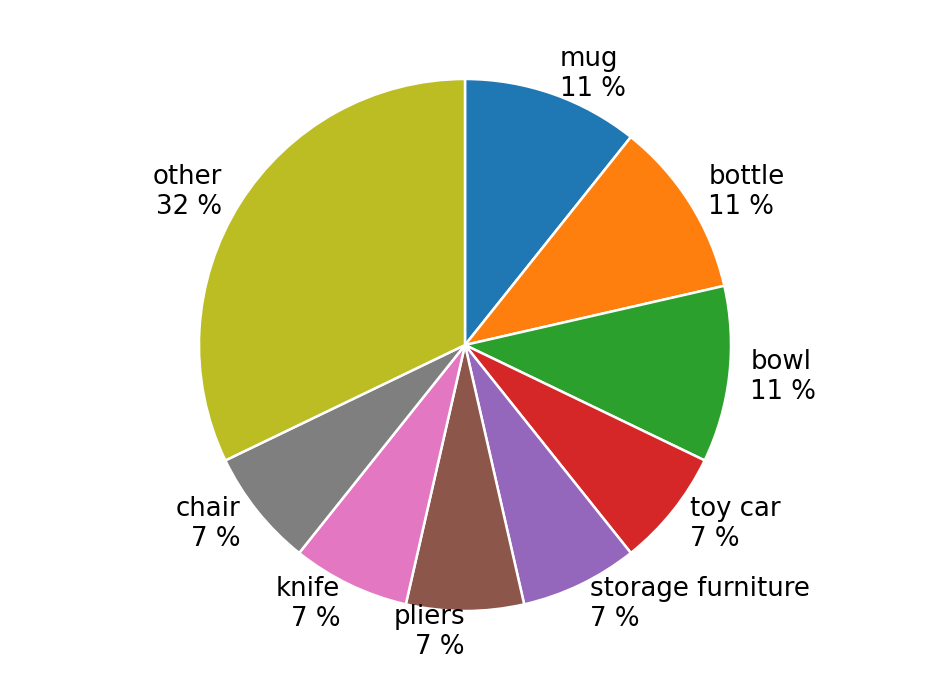
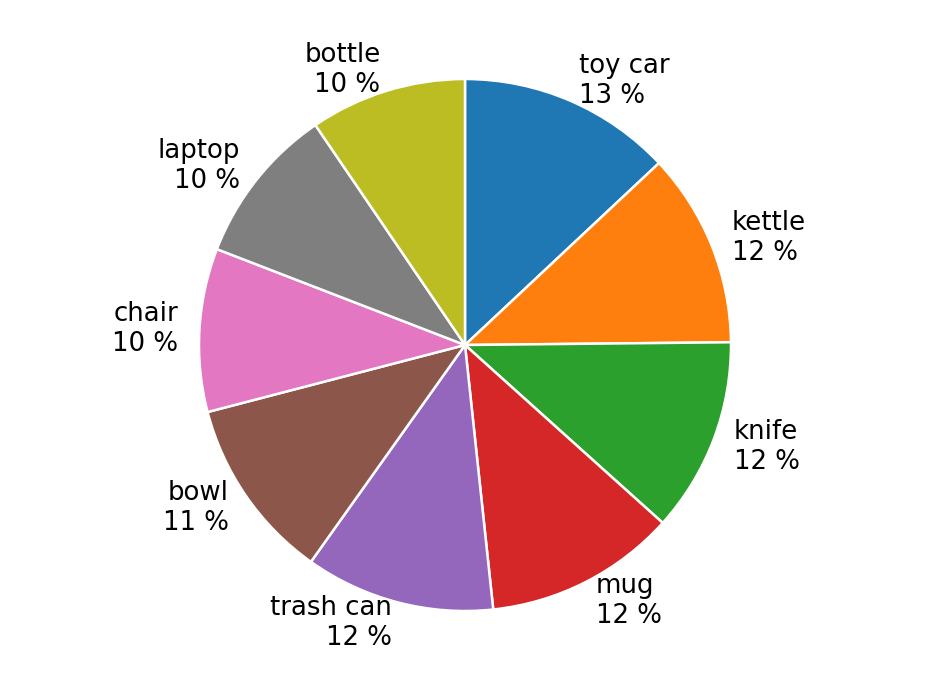
3d-wam deck #2-1: finalize the seven-dataset corpus
- HOI4D replaces its task-table placeholder with the converted corpus: 1,683
  episodes, 277,397 chunks, 9 of 16 categories (the released hand pose covers
  only 9; Storage Furniture / Safe / Bucket / Scissors / Pliers / Lamp / Stapler
  have object poses but no hands).
- New Method (2) slide: how each dataset's table was obtained (DexYCB AprilTag,
  GRAB shipped table pose, TACO/ARCTIC/OakInk2 resting-object plane cross-checked
  against frame 0, HOT3D none, HOI4D fitting from its labelled scene cloud) and
  the measured single- vs two-hand share (mixture 19.6 % / 80.1 %, chunk-weighted).
- Mixture table now carries the final chunk counts and shares.
- VITRA reframed as excluded: object points too noisy to teach dynamics.

Claude-Session: https://claude.ai/code/session_01SMPxcWL3pAAD5cKRpfQpSb

diff --git a/experiments/3d-wam/decks/2026-09-08-s2-1-human-data/index.html b/experiments/3d-wam/decks/2026-09-08-s2-1-human-data/index.html
@@ -121,15 +121,15 @@
 <!-- SECTION: overview -->
 <section class="slide s-overview">
   <h2>Overview</h2>
-  <p class="thesis"><b>[TL;DR]</b> Corpus thin on target skills: add HOI4D, re-weight the mix</p>
+  <p class="thesis"><b>[TL;DR]</b> Seven datasets, one gravity frame, table at z = 0</p>
   <ul>
-    <li>8 datasets profiled: tasks, objects, size</li>
-    <li>HOI4D matches best, not on disk</li>
-    <li>Decide: mixture shares, HOI4D download</li>
+    <li>7 datasets final; VITRA dropped</li>
+    <li>HOI4D converted: 9 of 16 categories</li>
+    <li>Decide: mixture shares</li>
   </ul>
   <div class="band">
     <figure><img src="assets/hero_size_relevance.png" alt="Two bar charts: hours of 10 Hz motion per dataset, and the share of episodes whose text is a GR-1 or DexJoCo target skill">
-      <figcaption>Size in hours of 10 Hz motion (left) and share of episodes whose text is a GR-1 / DexJoCo target skill (right); HOI4D from its task table, counts pending download</figcaption></figure>
+      <figcaption>Size in hours of 10 Hz motion (left) and share of episodes whose text is a GR-1 / DexJoCo target skill (right); HOI4D now measured on its 1,683 converted episodes</figcaption></figure>
   </div>
   <p class="footnote">sources: v2 manifests server-mirror/pull4/manifests* · VITRA v2 manifest (Mac) · HOI4D task table github leolyliu/HOI4D-Instructions · HOI4D paper arXiv 2203.01577</p>
 </section>
@@ -158,6 +158,39 @@
   <p class="footnote">GR-1 = robocasa task families PnP / open-close / press-turn · DexJoCo = its 11 tasks (pick_bucket, microwave, hanoi, assembly, photograph, unlock_ipad, click_mouse, fold_glasses, hammer_nail, pinch_tongs, water_plant) · full regexes in the appendix</p>
 </section>
 
+<!-- SECTION: method (2) · gravity frame + handedness -->
+<section class="s-method">
+  <h2>Method (2): one gravity frame, and who is actually working</h2>
+  <p class="thesis">Every dataset put z-up with its table at z = 0, from its own evidence</p>
+  <ul>
+    <li>Ground truth where it exists</li>
+    <li>Fitted only where it does not</li>
+    <li>No plane drawn when unmeasured</li>
+  </ul>
+  <div class="band">
+    <figure class="tb"><table class="fact">
+      <thead><tr><th>dataset</th><th>table from</th><th class="num">residual</th></tr></thead>
+      <tbody>
+        <tr><td>DexYCB</td><td>AprilTag board (calibration)</td><td class="num">0.0 mm</td></tr>
+        <tr><td>GRAB</td><td>table pose shipped per sequence</td><td class="num">0.0 cm</td></tr>
+        <tr><td>TACO / ARCTIC / OakInk2</td><td>resting-object plane, checked against frame 0</td><td class="num">&le; 0.2 cm</td></tr>
+        <tr><td>HOT3D</td><td>none &mdash; egocentric, many surfaces</td><td class="num">z-up only</td></tr>
+        <tr class="pend"><td>HOI4D</td><td>labelled scene cloud (table class)</td><td class="num">fitting<br>2026-09-09</td></tr>
+      </tbody></table><figcaption>Table source per dataset and the residual of the lowest resting object after the fix</figcaption></figure>
+    <figure class="tb"><table class="fact">
+      <thead><tr><th>dataset</th><th class="num">two hands active</th><th class="num">one hand</th></tr></thead>
+      <tbody>
+        <tr><td>ARCTIC / HOT3D / TACO</td><td class="num">98&ndash;99 %</td><td class="num">1&ndash;2 %</td></tr>
+        <tr><td>OakInk2</td><td class="num">91.8 %</td><td class="num">8.2 %</td></tr>
+        <tr><td>GRAB</td><td class="num">51.3 %</td><td class="num">47.0 %</td></tr>
+        <tr><td>HOI4D</td><td class="num">7.7 %</td><td class="num">91.4 %</td></tr>
+        <tr><td>DexYCB</td><td class="num">0.0 %</td><td class="num">99.8 %</td></tr>
+        <tr><td>mixture, chunk-weighted</td><td class="num">80.1 %</td><td class="num">19.6 %</td></tr>
+      </tbody></table><figcaption>Hands that actually touch an object, not hands that are annotated; requiring the weaker hand at &ge; 50 % engagement cuts the two-hand share to 68.6 %</figcaption></figure>
+  </div>
+  <p class="footnote">Method: per episode an affine <span class="mono">p&#8320; = R(p + origin) + T</span> with z up and the table at z = 0, shipped as a sidecar the loader reads; an episode that fails its check keeps the old hand-centred frame rather than a guessed plane. DexYCB's rotation independently confirmed by within-episode coplanarity (tilt &le; 1.8&deg;). GRAB's table moves per sequence (0.73&ndash;1.18 m), which is why a per-subject constant failed. Activity = &ge; 5 frames of 1 cm point contact &middot; full numbers in <span class="mono">season2/handedness/</span></p>
+</section>
+
 <!-- SECTION: viz grid (outside the ≤ 8 cap) · Data (1/8): GRAB · captions only, no interpretation -->
 <section class="slide s-viz fn2">
   <h2>Data (1/8): GRAB</h2>
@@ -175,11 +208,11 @@
         <tr><td>GR-1-relevant %</td><td class="num">65.3</td></tr>
         <tr><td>DexJoCo-relevant %</td><td class="num">67.2</td></tr>
       </tbody></table><figcaption>Size and relevance · v2 manifest, human embodiment</figcaption></figure>
-        <figure class="clip"><img src="assets/grab__grab_s10_bowl_lift_0__human.gif" alt="GRAB: ground-truth point set, lift the bowl" loading="lazy" style="background:url(assets/grab__grab_s10_bowl_lift_0__human.jpg) center/contain no-repeat"><figcaption>GRAB · lift the bowl · GT point set &middot; z-up, no table plane &middot; 50 frames @ 10 Hz · 2 hands, 1 object</figcaption></figure>
-    <figure class="clip"><img src="assets/grab__grab_s10_cup_lift_0__human.gif" alt="GRAB: ground-truth point set, lift the cup" loading="lazy" style="background:url(assets/grab__grab_s10_cup_lift_0__human.jpg) center/contain no-repeat"><figcaption>GRAB · lift the cup · GT point set &middot; z-up, no table plane &middot; 50 frames @ 10 Hz · 2 hands, 1 object</figcaption></figure>
-    <figure class="phold"><div class="pbox"><b>WILL UPDATE · raw video</b><span>no RGB exists (mocap-only dataset) · mesh render instead, lands 23:30</span></div><figcaption>Raw video · GRAB · mesh render instead of RGB · lands 2026-09-08 23:30 KST</figcaption></figure>
+        <figure class="clip"><img src="assets/grab__grab_s10_bowl_lift_0__human.gif" alt="GRAB: ground-truth point set, lift the bowl" loading="lazy" style="background:url(assets/grab__grab_s10_bowl_lift_0__human.jpg) center/contain no-repeat"><figcaption>GRAB · lift the bowl · GT point set &middot; z-up; plane pending re-render &middot; 50 frames @ 10 Hz · 2 hands, 1 object</figcaption></figure>
+    <figure class="clip"><img src="assets/grab__grab_s10_cup_lift_0__human.gif" alt="GRAB: ground-truth point set, lift the cup" loading="lazy" style="background:url(assets/grab__grab_s10_cup_lift_0__human.jpg) center/contain no-repeat"><figcaption>GRAB · lift the cup · GT point set &middot; z-up; plane pending re-render &middot; 50 frames @ 10 Hz · 2 hands, 1 object</figcaption></figure>
+    <figure class="phold"><div class="pbox"><b>WILL UPDATE · raw video</b><span>no RGB exists (mocap-only dataset)</span></div><figcaption>Raw video · GRAB · none exists: GRAB is mocap-only</figcaption></figure>
   </div>
-  <p class="footnote">GT renders in the SEASON-2 FRAME (2026-09-09): per-episode gravity z-up with the table at z = 0, drawn as a translucent plane on DexYCB / TACO / ARCTIC / OakInk2 (object points rest within 1 cm of it). GRAB and HOT3D have no consistent support surface, so they are shown z-up with NO plane. Camera elev 22&deg;/azim &minus;60&deg;, window = up to 50 frames from 5 before the first hand&ndash;object &lt; 5 cm frame; right hand green, left hand purple, objects orange/amber</p>
+  <p class="footnote">GT renders in the SEASON-2 FRAME (2026-09-09): per-episode gravity z-up with the table at z = 0, drawn as a translucent plane on DexYCB / TACO / ARCTIC / OakInk2 (object points rest within 1 cm of it). GRAB is now anchored from the table pose it ships per sequence (residual 0.0 cm, all 1,332 episodes) but these clips predate that fit, so no plane is drawn on them yet. HOT3D has no consistent support surface (egocentric, many surfaces) and stays z-up by design. Camera elev 22&deg;/azim &minus;60&deg;, window = up to 50 frames from 5 before the first hand&ndash;object &lt; 5 cm frame; right hand green, left hand purple, objects orange/amber</p>
 </section>
 
 <!-- SECTION: viz grid (outside the ≤ 8 cap) · Data (2/8): OakInk2 · captions only, no interpretation -->
@@ -203,7 +236,7 @@
     <figure class="clip"><img src="assets/oakink2__scene_01__A001++seq__235ac519d522ceb4c947__2023-04-27-20-30-50__human.gif" alt="OakInk2: ground-truth point set, Pour something into the plate and grip something out of the plate." loading="lazy" style="background:url(assets/oakink2__scene_01__A001++seq__235ac519d522ceb4c947__2023-04-27-20-30-50__human.jpg) center/contain no-repeat"><figcaption>OakInk2 · Pour something into the plate and grip something out of the plate · GT point set &middot; season-2 frame, table plane z = 0 &middot; 50 frames @ 10 Hz · 2 hands, 5 objects</figcaption></figure>
     <figure class="phold"><div class="pbox"><b>WILL UPDATE · raw video</b><span>RGB not on disk · needs the dataset&#x27;s video archive · unestimated</span></div><figcaption>Raw video · OakInk2 · RGB not on disk · unestimated</figcaption></figure>
   </div>
-  <p class="footnote">GT renders in the SEASON-2 FRAME (2026-09-09): per-episode gravity z-up with the table at z = 0, drawn as a translucent plane on DexYCB / TACO / ARCTIC / OakInk2 (object points rest within 1 cm of it). GRAB and HOT3D have no consistent support surface, so they are shown z-up with NO plane. Camera elev 22&deg;/azim &minus;60&deg;, window = up to 50 frames from 5 before the first hand&ndash;object &lt; 5 cm frame; right hand green, left hand purple, objects orange/amber</p>
+  <p class="footnote">GT renders in the SEASON-2 FRAME (2026-09-09): per-episode gravity z-up with the table at z = 0, drawn as a translucent plane on DexYCB / TACO / ARCTIC / OakInk2 (object points rest within 1 cm of it). GRAB is now anchored from the table pose it ships per sequence (residual 0.0 cm, all 1,332 episodes) but these clips predate that fit, so no plane is drawn on them yet. HOT3D has no consistent support surface (egocentric, many surfaces) and stays z-up by design. Camera elev 22&deg;/azim &minus;60&deg;, window = up to 50 frames from 5 before the first hand&ndash;object &lt; 5 cm frame; right hand green, left hand purple, objects orange/amber</p>
 </section>
 
 <!-- SECTION: viz grid (outside the ≤ 8 cap) · Data (3/8): TACO · captions only, no interpretation -->
@@ -227,7 +260,7 @@
     <figure class="clip"><img src="assets/taco__taco_put_in__bowl__pan_20230926_014__human.gif" alt="TACO: ground-truth point set, put in the pan with the bowl" loading="lazy" style="background:url(assets/taco__taco_put_in__bowl__pan_20230926_014__human.jpg) center/contain no-repeat"><figcaption>TACO · put in the pan with the bowl · GT point set &middot; season-2 frame, table plane z = 0 &middot; 50 frames @ 10 Hz · 2 hands, 2 objects</figcaption></figure>
     <figure class="phold"><div class="pbox"><b>WILL UPDATE · raw video</b><span>RGB not on disk · needs the dataset&#x27;s video archive · unestimated</span></div><figcaption>Raw video · TACO · RGB not on disk · unestimated</figcaption></figure>
   </div>
-  <p class="footnote">GT renders in the SEASON-2 FRAME (2026-09-09): per-episode gravity z-up with the table at z = 0, drawn as a translucent plane on DexYCB / TACO / ARCTIC / OakInk2 (object points rest within 1 cm of it). GRAB and HOT3D have no consistent support surface, so they are shown z-up with NO plane. Camera elev 22&deg;/azim &minus;60&deg;, window = up to 50 frames from 5 before the first hand&ndash;object &lt; 5 cm frame; right hand green, left hand purple, objects orange/amber</p>
+  <p class="footnote">GT renders in the SEASON-2 FRAME (2026-09-09): per-episode gravity z-up with the table at z = 0, drawn as a translucent plane on DexYCB / TACO / ARCTIC / OakInk2 (object points rest within 1 cm of it). GRAB is now anchored from the table pose it ships per sequence (residual 0.0 cm, all 1,332 episodes) but these clips predate that fit, so no plane is drawn on them yet. HOT3D has no consistent support surface (egocentric, many surfaces) and stays z-up by design. Camera elev 22&deg;/azim &minus;60&deg;, window = up to 50 frames from 5 before the first hand&ndash;object &lt; 5 cm frame; right hand green, left hand purple, objects orange/amber</p>
 </section>
 
 <!-- SECTION: viz grid (outside the ≤ 8 cap) · Data (4/8): ARCTIC · captions only, no interpretation -->
@@ -251,7 +284,7 @@
     <figure class="clip"><img src="assets/arctic__dataset_s01_ketchup_grab_01__human.gif" alt="ARCTIC: ground-truth point set, grab the ketchup" loading="lazy" style="background:url(assets/arctic__dataset_s01_ketchup_grab_01__human.jpg) center/contain no-repeat"><figcaption>ARCTIC · grab the ketchup · GT point set &middot; season-2 frame, table plane z = 0 &middot; 50 frames @ 10 Hz · 2 hands, 1 object</figcaption></figure>
     <figure class="phold"><div class="pbox"><b>WILL UPDATE · raw video</b><span>RGB not on disk · needs the dataset&#x27;s video archive · unestimated</span></div><figcaption>Raw video · ARCTIC · RGB not on disk · unestimated</figcaption></figure>
   </div>
-  <p class="footnote">GT renders in the SEASON-2 FRAME (2026-09-09): per-episode gravity z-up with the table at z = 0, drawn as a translucent plane on DexYCB / TACO / ARCTIC / OakInk2 (object points rest within 1 cm of it). GRAB and HOT3D have no consistent support surface, so they are shown z-up with NO plane. Camera elev 22&deg;/azim &minus;60&deg;, window = up to 50 frames from 5 before the first hand&ndash;object &lt; 5 cm frame; right hand green, left hand purple, objects orange/amber</p>
+  <p class="footnote">GT renders in the SEASON-2 FRAME (2026-09-09): per-episode gravity z-up with the table at z = 0, drawn as a translucent plane on DexYCB / TACO / ARCTIC / OakInk2 (object points rest within 1 cm of it). GRAB is now anchored from the table pose it ships per sequence (residual 0.0 cm, all 1,332 episodes) but these clips predate that fit, so no plane is drawn on them yet. HOT3D has no consistent support surface (egocentric, many surfaces) and stays z-up by design. Camera elev 22&deg;/azim &minus;60&deg;, window = up to 50 frames from 5 before the first hand&ndash;object &lt; 5 cm frame; right hand green, left hand purple, objects orange/amber</p>
 </section>
 
 <!-- SECTION: viz grid (outside the ≤ 8 cap) · Data (5/8): DexYCB · captions only, no interpretation -->
@@ -275,7 +308,7 @@
     <figure class="clip"><img src="assets/dexycb__dexycb_20200709-subject-01_20200709_141841_932122062010__human.gif" alt="DexYCB: ground-truth point set, grasp the master chef can" loading="lazy" style="background:url(assets/dexycb__dexycb_20200709-subject-01_20200709_141841_932122062010__human.jpg) center/contain no-repeat"><figcaption>DexYCB · grasp the master chef can · GT point set &middot; season-2 frame, table plane z = 0 &middot; 19 frames @ 10 Hz · 1 hand, 4 objects</figcaption></figure>
     <figure class="clip"><video src="assets/raw_dexycb__20200709_142853_932122062010.mp4" poster="assets/raw_dexycb__20200709_142853_932122062010.jpg" autoplay loop muted playsinline preload="metadata" aria-label="DexYCB raw RGB, grasp the tomato soup can"></video><figcaption>DexYCB · grasp the tomato soup can · allocentric RGB camera, 74 frames @ 30 fps</figcaption></figure>
   </div>
-  <p class="footnote">GT renders in the SEASON-2 FRAME (2026-09-09): per-episode gravity z-up with the table at z = 0, drawn as a translucent plane on DexYCB / TACO / ARCTIC / OakInk2 (object points rest within 1 cm of it). GRAB and HOT3D have no consistent support surface, so they are shown z-up with NO plane. Camera elev 22&deg;/azim &minus;60&deg;, window = up to 50 frames from 5 before the first hand&ndash;object &lt; 5 cm frame; right hand green, left hand purple, objects orange/amber</p>
+  <p class="footnote">GT renders in the SEASON-2 FRAME (2026-09-09): per-episode gravity z-up with the table at z = 0, drawn as a translucent plane on DexYCB / TACO / ARCTIC / OakInk2 (object points rest within 1 cm of it). GRAB is now anchored from the table pose it ships per sequence (residual 0.0 cm, all 1,332 episodes) but these clips predate that fit, so no plane is drawn on them yet. HOT3D has no consistent support surface (egocentric, many surfaces) and stays z-up by design. Camera elev 22&deg;/azim &minus;60&deg;, window = up to 50 frames from 5 before the first hand&ndash;object &lt; 5 cm frame; right hand green, left hand purple, objects orange/amber</p>
 </section>
 
 <!-- SECTION: viz grid (outside the ≤ 8 cap) · Data (6/8): HOT3D · captions only, no interpretation -->
@@ -299,37 +332,36 @@
     <figure class="clip"><img src="assets/hot3d__P0001_15c4300c__human.gif" alt="HOT3D: ground-truth point set, interact with the potato masher and the can tomato sauce" loading="lazy" style="background:url(assets/hot3d__P0001_15c4300c__human.jpg) center/contain no-repeat"><figcaption>HOT3D · interact with the potato masher and the can tomato sauce · GT point set &middot; z-up, no table plane &middot; 50 frames @ 10 Hz · 2 hands, 6 objects</figcaption></figure>
     <figure class="clip"><video src="assets/raw_hot3d__P0001_10a27bf7.mp4" poster="assets/raw_hot3d__P0001_10a27bf7.jpg" autoplay loop muted playsinline preload="metadata" aria-label="HOT3D raw RGB, interact with the mug white and the keyboard"></video><figcaption>HOT3D · P0001_10a27bf7 · Aria RGB, last 5 s of the recording (alignment to the object-pose clock pending)</figcaption></figure>
   </div>
-  <p class="footnote">GT renders in the SEASON-2 FRAME (2026-09-09): per-episode gravity z-up with the table at z = 0, drawn as a translucent plane on DexYCB / TACO / ARCTIC / OakInk2 (object points rest within 1 cm of it). GRAB and HOT3D have no consistent support surface, so they are shown z-up with NO plane. Camera elev 22&deg;/azim &minus;60&deg;, window = up to 50 frames from 5 before the first hand&ndash;object &lt; 5 cm frame; right hand green, left hand purple, objects orange/amber</p>
+  <p class="footnote">GT renders in the SEASON-2 FRAME (2026-09-09): per-episode gravity z-up with the table at z = 0, drawn as a translucent plane on DexYCB / TACO / ARCTIC / OakInk2 (object points rest within 1 cm of it). GRAB is now anchored from the table pose it ships per sequence (residual 0.0 cm, all 1,332 episodes) but these clips predate that fit, so no plane is drawn on them yet. HOT3D has no consistent support surface (egocentric, many surfaces) and stays z-up by design. Camera elev 22&deg;/azim &minus;60&deg;, window = up to 50 frames from 5 before the first hand&ndash;object &lt; 5 cm frame; right hand green, left hand purple, objects orange/amber</p>
 </section>
 
 <!-- SECTION: viz grid (outside the ≤ 8 cap) · Data (7/8): HOI4D · captions only, no interpretation -->
 <section class="slide s-viz fn2">
   <h2>Data (7/8): HOI4D</h2>
-  <p class="thesis ctx">Egocentric RGB-D; pick-and-place for most categories; not yet on disk</p>
+  <p class="thesis ctx">Egocentric RGB-D, converted; pick-and-place dominant; 9 of 16 categories</p>
   <div class="vizgrid">
-    <figure><img src="assets/pie_task_hoi4d.png" alt="HOI4D: task buckets by episode text, pie chart" loading="lazy"><figcaption>Task buckets · weights = the official task table (one unit per category × task), sequence counts pending download</figcaption></figure>
-    <figure><img src="assets/pie_obj_hoi4d.png" alt="HOI4D: objects named in the text, top 9, pie chart" loading="lazy"><figcaption>Objects · weights = the official task table (one unit per category × task), sequence counts pending download</figcaption></figure>
+    <figure><img src="assets/pie_task_hoi4d.png" alt="HOI4D: task buckets by episode text, pie chart" loading="lazy"><figcaption>Task buckets by episode text &middot; 1,683 converted episodes</figcaption></figure>
+    <figure><img src="assets/pie_obj_hoi4d.png" alt="HOI4D: object categories, pie chart" loading="lazy"><figcaption>Object categories &middot; the 9 with released hand pose</figcaption></figure>
     <figure class="tb"><table class="fact">
       <thead><tr><th>quantity</th><th class="num">HOI4D</th></tr></thead>
       <tbody>
-        <tr><td>episodes</td><td class="num">4,000 (paper)</td></tr>
-        <tr><td>hours @ 10 Hz</td><td class="num">22.2 (paper)</td></tr>
-        <tr class="pend"><td>chunks (T = 10, stride 1, before validity)</td><td class="num">pending<br>2026-09-09</td></tr>
-        <tr><td>unique texts</td><td class="num">56 (task-table entries)</td></tr>
-        <tr><td>GR-1-relevant %</td><td class="num">83.9</td></tr>
-        <tr><td>DexJoCo-relevant %</td><td class="num">92.9</td></tr>
-      </tbody></table><figcaption>Size from the paper (4,000 sequences × 20 s), relevance from the task table</figcaption></figure>
-        <figure class="phold"><div class="pbox"><b>WILL UPDATE · 3D point set</b><span>after conversion · 2026-09-09</span></div><figcaption>3D point set · HOI4D · after conversion · 2026-09-09</figcaption></figure>
-    <figure class="phold"><div class="pbox"><b>WILL UPDATE · 3D point set</b><span>after conversion · 2026-09-09</span></div><figcaption>3D point set · HOI4D · after conversion · 2026-09-09</figcaption></figure>
-    <figure class="phold"><div class="pbox"><b>WILL UPDATE · raw video</b><span>RGB archive downloading now, 21.7 GB, lands 2026-09-09</span></div><figcaption>Raw video · HOI4D · RGB archive downloading (21.7 GB) · lands 2026-09-09</figcaption></figure>
+        <tr><td>episodes converted</td><td class="num">1,683</td></tr>
+        <tr><td>hours @ 10 Hz</td><td class="num">8.1</td></tr>
+        <tr><td>chunks (T = 10, stride 1, before validity)</td><td class="num">277,397</td></tr>
+        <tr><td>categories with hand pose</td><td class="num">9 of 16</td></tr>
+        <tr><td>GR-1-relevant %</td><td class="num">86.8</td></tr>
+        <tr><td>DexJoCo-relevant %</td><td class="num">96.7</td></tr>
+      </tbody></table><figcaption>Converted 2026-09-09 &middot; hand reprojection 0.65 px &middot; 249,094 chunks after validity</figcaption></figure>
+    <figure class="phold"><div class="pbox"><b>WILL UPDATE &middot; 3D point set</b><span>after the scene-table frame fit &middot; 2026-09-09</span></div><figcaption>3D point set &middot; HOI4D &middot; held until its gravity frame is fitted from the labelled scene cloud</figcaption></figure>
+    <figure class="phold"><div class="pbox"><b>WILL UPDATE &middot; raw video</b><span>RGB archive on disk (23.3 GB) &middot; 2026-09-09</span></div><figcaption>Raw video &middot; HOI4D &middot; RGB archive downloaded, clips not yet cut</figcaption></figure>
   </div>
-  <p class="footnote">source: github leolyliu/HOI4D-Instructions definitions/task/task_definitions.csv · arXiv 2203.01577 · not on disk · one unit per (category, task) of the task table, no manifest yet · counting = appendix A0 · buckets = A1</p>
+  <p class="footnote">⚠ The released Hand_pose archive covers only 9 of 16 categories (right hand 464,909 files, left hand 32,367, Chair only). Storage Furniture, Safe, Bucket, Scissors, Pliers, Lamp and Stapler have object poses but NO hands (1,253 sequences) — that removes every drawer/door open-close source and the DexJoCo bucket analogue. Undocumented on the project page. Recovery plan: run HaWoR on the RGB we already hold &middot; counting = appendix A0</p>
 </section>
 
 <!-- SECTION: viz grid (outside the ≤ 8 cap) · Data (8/8): VITRA · captions only, no interpretation -->
 <section class="slide s-viz fn2">
-  <h2>Data (8/8): VITRA</h2>
-  <p class="thesis ctx">In-the-wild egocentric video; rich language; partial objects</p>
+  <h2>Data (8/8): VITRA &mdash; excluded</h2>
+  <p class="thesis ctx">Dropped from the corpus: object points too noisy to teach dynamics</p>
   <div class="vizgrid">
     <figure><img src="assets/pie_task_vitra.png" alt="VITRA: task buckets by episode text, pie chart" loading="lazy"><figcaption>Task buckets by episode text · 99,999 episodes</figcaption></figure>
     <figure><img src="assets/pie_obj_vitra.png" alt="VITRA: objects named in the text, top 9, pie chart" loading="lazy"><figcaption>Objects named in the text · top 9</figcaption></figure>
@@ -343,11 +375,11 @@
         <tr><td>GR-1-relevant %</td><td class="num">66.5</td></tr>
         <tr><td>DexJoCo-relevant %</td><td class="num">68.5</td></tr>
       </tbody></table><figcaption>Size and relevance · VITRA v2 manifest (Mac)</figcaption></figure>
-        <figure class="clip"><img src="assets/vitra__vitra_Ego4D_04041aaa-d309-42db-b65c-dcaf86b9f96c_ep_000462__human.gif" alt="VITRA: ground-truth point set, pick up the cup" loading="lazy" style="background:url(assets/vitra__vitra_Ego4D_04041aaa-d309-42db-b65c-dcaf86b9f96c_ep_000462__human.jpg) center/contain no-repeat"><figcaption>VITRA · pick up the cup · GT point set, converted v2 corpus, 16 frames @ 10 Hz · 2 hands, 2 objects · partial 128-point objects; hand never within 5 cm of a stored object point</figcaption></figure>
-    <figure class="clip"><img src="assets/vitra__vitra_Ego4D_056220c6-3c5c-419d-87b2-286e8a3c0706_ep_000086__human.gif" alt="VITRA: ground-truth point set, pick up the can from the drawer" loading="lazy" style="background:url(assets/vitra__vitra_Ego4D_056220c6-3c5c-419d-87b2-286e8a3c0706_ep_000086__human.jpg) center/contain no-repeat"><figcaption>VITRA · pick up the can from the drawer · GT point set, converted v2 corpus, 16 frames @ 10 Hz · 2 hands, 2 objects · partial 128-point objects; hand never within 5 cm of a stored object point</figcaption></figure>
+        <figure class="clip"><img src="assets/vitra__vitra_Ego4D_04041aaa-d309-42db-b65c-dcaf86b9f96c_ep_000462__human.gif" alt="VITRA: ground-truth point set, pick up the cup" loading="lazy" style="background:url(assets/vitra__vitra_Ego4D_04041aaa-d309-42db-b65c-dcaf86b9f96c_ep_000462__human.jpg) center/contain no-repeat"><figcaption>VITRA · pick up the cup · 16 frames @ 10 Hz · partial 128-point objects; hand never within 5 cm of one</figcaption></figure>
+    <figure class="clip"><img src="assets/vitra__vitra_Ego4D_056220c6-3c5c-419d-87b2-286e8a3c0706_ep_000086__human.gif" alt="VITRA: ground-truth point set, pick up the can from the drawer" loading="lazy" style="background:url(assets/vitra__vitra_Ego4D_056220c6-3c5c-419d-87b2-286e8a3c0706_ep_000086__human.jpg) center/contain no-repeat"><figcaption>VITRA · pick up the can from the drawer · 16 frames @ 10 Hz · partial 128-point objects; hand never within 5 cm of one</figcaption></figure>
     <figure class="phold"><div class="pbox"><b>WILL UPDATE · raw video</b><span>source videos (Ego4D / EPIC / SSv2) not on disk · unestimated</span></div><figcaption>Raw video · VITRA · source videos not on disk · unestimated</figcaption></figure>
   </div>
-  <p class="footnote">GT renders in the SEASON-2 FRAME (2026-09-09): per-episode gravity z-up with the table at z = 0, drawn as a translucent plane on DexYCB / TACO / ARCTIC / OakInk2 (object points rest within 1 cm of it). GRAB and HOT3D have no consistent support surface, so they are shown z-up with NO plane. Camera elev 22&deg;/azim &minus;60&deg;, window = up to 50 frames from 5 before the first hand&ndash;object &lt; 5 cm frame; right hand green, left hand purple, objects orange/amber</p>
+  <p class="footnote">GT renders in the SEASON-2 FRAME (2026-09-09): per-episode gravity z-up with the table at z = 0, drawn as a translucent plane on DexYCB / TACO / ARCTIC / OakInk2 (object points rest within 1 cm of it). GRAB is now anchored from the table pose it ships per sequence (residual 0.0 cm, all 1,332 episodes) but these clips predate that fit, so no plane is drawn on them yet. HOT3D has no consistent support surface (egocentric, many surfaces) and stays z-up by design. Camera elev 22&deg;/azim &minus;60&deg;, window = up to 50 frames from 5 before the first hand&ndash;object &lt; 5 cm frame; right hand green, left hand purple, objects orange/amber</p>
 </section>
 
 <!-- SECTION: results (1) · size vs relevance -->
@@ -374,12 +406,12 @@
       <tbody>
         <tr><td>DexYCB</td><td class="num">0.7</td><td class="num">100.0</td><td class="num">100.0</td><td>mocap, full objects</td></tr>
         <tr><td>HOT3D</td><td class="num">7.8</td><td class="num">0.0</td><td class="num">0.0</td><td>Aria, tracked objects, no text</td></tr>
-        <tr><td>HOI4D</td><td class="num">22.2</td><td class="num">83.9</td><td class="num">92.9</td><td>annotated RGB-D, right hand</td></tr>
+        <tr><td>HOI4D</td><td class="num">8.1</td><td class="num">86.8</td><td class="num">96.7</td><td>GT objects, 9/16 categories</td></tr>
         <tr><td>VITRA</td><td class="num">40.5</td><td class="num">66.5</td><td class="num">68.5</td><td>monocular hands, partial objects</td></tr>
       </tbody></table>
-      <figcaption>The rest · HOI4D hours from the paper, relevance from its task table, sequence counts pending download</figcaption></figure>
+      <figcaption>The rest &middot; HOI4D measured on its 1,683 converted episodes</figcaption></figure>
   </div>
-  <p class="footnote">hours = Σ n_frames ÷ 10 Hz from the v2 manifests · HOI4D = 4,000 sequences × 20 s (paper) · HOT3D: no task text, 0 by construction · buckets A1 · counting A0</p>
+  <p class="footnote">hours = &Sigma; n_frames &divide; 10 Hz from the all-object manifests &middot; HOT3D: no task text, 0 by construction &middot; VITRA dropped (monocular hands, 128-point partial objects) &middot; buckets A1 &middot; counting A0</p>
 </section>
 
 <!-- SECTION: results (2) · ranking -->
@@ -422,11 +454,7 @@
     <figure class="tb"><table class="mix">
       <thead><tr><th>dataset</th><th class="num">current (5-set natural)</th><th class="num">proposed now</th><th class="num">after HOI4D</th></tr></thead>
       <tbody>
-        <tr><td>GRAB</td><td class="num">21.0</td><td class="num">16.7</td><td class="num">12.3</td></tr>
-        <tr><td>OakInk2</td><td class="num">48.6</td><td class="num">25.4</td><td class="num">18.6</td></tr>
-        <tr><td>TACO</td><td class="num">16.7</td><td class="num">14.9</td><td class="num">10.9</td></tr>
-        <tr><td>ARCTIC</td><td class="num">11.0</td><td class="num">12.1</td><td class="num">8.9</td></tr>
-      </tbody></table></figure>
+        <tr><td>OakInk2</td><td class="num">285,075</td><td class="num">21.0</td></tr><tr><td>HOI4D</td><td class="num">277,397</td><td class="num">20.7</td></tr><tr><td>DexYCB</td><td class="num">15,432</td><td class="num">15.5</td></tr><tr><td>GRAB</td><td class="num">123,485</td><td class="num">13.8</td></tr><tr><td>TACO</td><td class="num">98,260</td><td class="num">12.3</td></tr><tr><td>ARCTIC</td><td class="num">64,514</td><td class="num">10.0</td></tr><tr><td>HOT3D</td><td class="num">277,905</td><td class="num">6.6</td></tr></tbody></table></figure>
     <figure class="tb"><table class="mix">
       <thead><tr><th>dataset</th><th class="num">current (5-set natural)</th><th class="num">proposed now</th><th class="num">after HOI4D</th></tr></thead>
       <tbody>
@@ -544,14 +572,14 @@
 <section class="slide s-viz fn2">
   <h2>Appendix A4 · More clips (1/5): GRAB · OakInk2</h2>
   <div class="vizgrid more">
-        <figure class="clip"><img src="assets/grab__grab_s10_mug_lift_0__human.gif" alt="GRAB: ground-truth point set, lift the mug" loading="lazy" style="background:url(assets/grab__grab_s10_mug_lift_0__human.jpg) center/contain no-repeat"><figcaption>GRAB · lift the mug · GT point set &middot; z-up, no table plane &middot; 50 frames @ 10 Hz · 2 hands, 1 object</figcaption></figure>
-    <figure class="clip"><img src="assets/grab__grab_s10_bowl_pass_1__human.gif" alt="GRAB: ground-truth point set, pass the bowl" loading="lazy" style="background:url(assets/grab__grab_s10_bowl_pass_1__human.jpg) center/contain no-repeat"><figcaption>GRAB · pass the bowl · GT point set &middot; z-up, no table plane &middot; 49 frames @ 10 Hz · 2 hands, 1 object</figcaption></figure>
-    <figure class="clip"><img src="assets/grab__grab_s10_cup_pass_1__human.gif" alt="GRAB: ground-truth point set, pass the cup" loading="lazy" style="background:url(assets/grab__grab_s10_cup_pass_1__human.jpg) center/contain no-repeat"><figcaption>GRAB · pass the cup · GT point set &middot; z-up, no table plane &middot; 50 frames @ 10 Hz · 2 hands, 1 object</figcaption></figure>
+        <figure class="clip"><img src="assets/grab__grab_s10_mug_lift_0__human.gif" alt="GRAB: ground-truth point set, lift the mug" loading="lazy" style="background:url(assets/grab__grab_s10_mug_lift_0__human.jpg) center/contain no-repeat"><figcaption>GRAB · lift the mug · GT point set &middot; z-up; plane pending re-render &middot; 50 frames @ 10 Hz · 2 hands, 1 object</figcaption></figure>
+    <figure class="clip"><img src="assets/grab__grab_s10_bowl_pass_1__human.gif" alt="GRAB: ground-truth point set, pass the bowl" loading="lazy" style="background:url(assets/grab__grab_s10_bowl_pass_1__human.jpg) center/contain no-repeat"><figcaption>GRAB · pass the bowl · GT point set &middot; z-up; plane pending re-render &middot; 49 frames @ 10 Hz · 2 hands, 1 object</figcaption></figure>
+    <figure class="clip"><img src="assets/grab__grab_s10_cup_pass_1__human.gif" alt="GRAB: ground-truth point set, pass the cup" loading="lazy" style="background:url(assets/grab__grab_s10_cup_pass_1__human.jpg) center/contain no-repeat"><figcaption>GRAB · pass the cup · GT point set &middot; z-up; plane pending re-render &middot; 50 frames @ 10 Hz · 2 hands, 1 object</figcaption></figure>
     <figure class="clip"><img src="assets/oakink2__scene_01__A001++seq__7653ff4f86a8707fe7f3__2023-04-27-20-22-16__human.gif" alt="OakInk2: ground-truth point set, Grip sugar cubes into the bowl and pour juice into the bowl." loading="lazy" style="background:url(assets/oakink2__scene_01__A001++seq__7653ff4f86a8707fe7f3__2023-04-27-20-22-16__human.jpg) center/contain no-repeat"><figcaption>OakInk2 · Grip sugar cubes into the bowl and pour juice into the bowl · GT point set &middot; season-2 frame, table plane z = 0 &middot; 50 frames @ 10 Hz · 2 hands, 5 objects</figcaption></figure>
     <figure class="clip"><img src="assets/oakink2__scene_01__A001++seq__8420fa617d0a08081df3__2023-04-27-20-42-15__human.gif" alt="OakInk2: ground-truth point set, Pour and scrape something into the plate." loading="lazy" style="background:url(assets/oakink2__scene_01__A001++seq__8420fa617d0a08081df3__2023-04-27-20-42-15__human.jpg) center/contain no-repeat"><figcaption>OakInk2 · Pour and scrape something into the plate · GT point set &middot; season-2 frame, table plane z = 0 &middot; 50 frames @ 10 Hz · 2 hands, 3 objects</figcaption></figure>
     <figure class="clip"><img src="assets/oakink2__scene_01__A001++seq__9588d8284630e2f14b82__2023-04-27-20-17-40__human.gif" alt="OakInk2: ground-truth point set, Pour juice into the bowl and stir it with the rod." loading="lazy" style="background:url(assets/oakink2__scene_01__A001++seq__9588d8284630e2f14b82__2023-04-27-20-17-40__human.jpg) center/contain no-repeat"><figcaption>OakInk2 · Pour juice into the bowl and stir it with the rod · GT point set &middot; season-2 frame, table plane z = 0 &middot; 50 frames @ 10 Hz · 2 hands, 3 objects</figcaption></figure>
   </div>
-  <p class="footnote">GT renders in the SEASON-2 FRAME (2026-09-09): per-episode gravity z-up with the table at z = 0, drawn as a translucent plane on DexYCB / TACO / ARCTIC / OakInk2 (object points rest within 1 cm of it). GRAB and HOT3D have no consistent support surface, so they are shown z-up with NO plane. Camera elev 22&deg;/azim &minus;60&deg;, window = up to 50 frames from 5 before the first hand&ndash;object &lt; 5 cm frame; right hand green, left hand purple, objects orange/amber</p>
+  <p class="footnote">GT renders in the SEASON-2 FRAME (2026-09-09): per-episode gravity z-up with the table at z = 0, drawn as a translucent plane on DexYCB / TACO / ARCTIC / OakInk2 (object points rest within 1 cm of it). GRAB is now anchored from the table pose it ships per sequence (residual 0.0 cm, all 1,332 episodes) but these clips predate that fit, so no plane is drawn on them yet. HOT3D has no consistent support surface (egocentric, many surfaces) and stays z-up by design. Camera elev 22&deg;/azim &minus;60&deg;, window = up to 50 frames from 5 before the first hand&ndash;object &lt; 5 cm frame; right hand green, left hand purple, objects orange/amber</p>
 </section>
 
 <!-- SECTION: appendix A4 (2/5) · viz grid · remaining clips · captions only -->
@@ -565,7 +593,7 @@
     <figure class="clip"><img src="assets/arctic__dataset_s01_box_use_01__human.gif" alt="ARCTIC: ground-truth point set, use the box" loading="lazy" style="background:url(assets/arctic__dataset_s01_box_use_01__human.jpg) center/contain no-repeat"><figcaption>ARCTIC · use the box · GT point set &middot; season-2 frame, table plane z = 0 &middot; 50 frames @ 10 Hz · 2 hands, 1 object</figcaption></figure>
     <figure class="clip"><img src="assets/arctic__dataset_s01_capsulemachine_use_01__human.gif" alt="ARCTIC: ground-truth point set, use the capsulemachine" loading="lazy" style="background:url(assets/arctic__dataset_s01_capsulemachine_use_01__human.jpg) center/contain no-repeat"><figcaption>ARCTIC · use the capsulemachine · GT point set &middot; season-2 frame, table plane z = 0 &middot; 50 frames @ 10 Hz · 2 hands, 1 object</figcaption></figure>
   </div>
-  <p class="footnote">GT renders in the SEASON-2 FRAME (2026-09-09): per-episode gravity z-up with the table at z = 0, drawn as a translucent plane on DexYCB / TACO / ARCTIC / OakInk2 (object points rest within 1 cm of it). GRAB and HOT3D have no consistent support surface, so they are shown z-up with NO plane. Camera elev 22&deg;/azim &minus;60&deg;, window = up to 50 frames from 5 before the first hand&ndash;object &lt; 5 cm frame; right hand green, left hand purple, objects orange/amber</p>
+  <p class="footnote">GT renders in the SEASON-2 FRAME (2026-09-09): per-episode gravity z-up with the table at z = 0, drawn as a translucent plane on DexYCB / TACO / ARCTIC / OakInk2 (object points rest within 1 cm of it). GRAB is now anchored from the table pose it ships per sequence (residual 0.0 cm, all 1,332 episodes) but these clips predate that fit, so no plane is drawn on them yet. HOT3D has no consistent support surface (egocentric, many surfaces) and stays z-up by design. Camera elev 22&deg;/azim &minus;60&deg;, window = up to 50 frames from 5 before the first hand&ndash;object &lt; 5 cm frame; right hand green, left hand purple, objects orange/amber</p>
 </section>
 
 <!-- SECTION: appendix A4 (3/5) · viz grid · remaining clips · captions only -->
@@ -579,7 +607,7 @@
     <figure class="clip"><img src="assets/hot3d__P0001_83b755aa__human.gif" alt="HOT3D: ground-truth point set, interact with the mug patterned and the cellphone" loading="lazy" style="background:url(assets/hot3d__P0001_83b755aa__human.jpg) center/contain no-repeat"><figcaption>HOT3D · interact with the mug patterned and the cellphone · GT point set &middot; z-up, no table plane &middot; 50 frames @ 10 Hz · 2 hands, 6 objects</figcaption></figure>
     <figure class="clip"><img src="assets/hot3d__P0001_8d136980__human.gif" alt="HOT3D: ground-truth point set, interact with the whiteboard eraser and the mug white" loading="lazy" style="background:url(assets/hot3d__P0001_8d136980__human.jpg) center/contain no-repeat"><figcaption>HOT3D · interact with the whiteboard eraser and the mug white · GT point set &middot; z-up, no table plane &middot; 50 frames @ 10 Hz · 2 hands, 6 objects</figcaption></figure>
   </div>
-  <p class="footnote">GT renders in the SEASON-2 FRAME (2026-09-09): per-episode gravity z-up with the table at z = 0, drawn as a translucent plane on DexYCB / TACO / ARCTIC / OakInk2 (object points rest within 1 cm of it). GRAB and HOT3D have no consistent support surface, so they are shown z-up with NO plane. Camera elev 22&deg;/azim &minus;60&deg;, window = up to 50 frames from 5 before the first hand&ndash;object &lt; 5 cm frame; right hand green, left hand purple, objects orange/amber</p>
+  <p class="footnote">GT renders in the SEASON-2 FRAME (2026-09-09): per-episode gravity z-up with the table at z = 0, drawn as a translucent plane on DexYCB / TACO / ARCTIC / OakInk2 (object points rest within 1 cm of it). GRAB is now anchored from the table pose it ships per sequence (residual 0.0 cm, all 1,332 episodes) but these clips predate that fit, so no plane is drawn on them yet. HOT3D has no consistent support surface (egocentric, many surfaces) and stays z-up by design. Camera elev 22&deg;/azim &minus;60&deg;, window = up to 50 frames from 5 before the first hand&ndash;object &lt; 5 cm frame; right hand green, left hand purple, objects orange/amber</p>
 </section>
 
 <!-- SECTION: appendix A4 (4/5) · viz grid · remaining clips · captions only -->
@@ -593,7 +621,7 @@
     <figure class="clip"><video src="assets/raw_dexycb__20200709_145837_932122062010.mp4" poster="assets/raw_dexycb__20200709_145837_932122062010.jpg" autoplay loop muted playsinline preload="metadata" aria-label="DexYCB raw RGB, grasp the pitcher base"></video><figcaption>DexYCB · grasp the pitcher base · allocentric RGB camera, 74 frames @ 30 fps</figcaption></figure>
     <figure class="clip"><video src="assets/raw_dexycb__20200709_150906_932122062010.mp4" poster="assets/raw_dexycb__20200709_150906_932122062010.jpg" autoplay loop muted playsinline preload="metadata" aria-label="DexYCB raw RGB, grasp the bowl"></video><figcaption>DexYCB · grasp the bowl · allocentric RGB camera, 74 frames @ 30 fps</figcaption></figure>
   </div>
-  <p class="footnote">GT renders in the SEASON-2 FRAME (2026-09-09): per-episode gravity z-up with the table at z = 0, drawn as a translucent plane on DexYCB / TACO / ARCTIC / OakInk2 (object points rest within 1 cm of it). GRAB and HOT3D have no consistent support surface, so they are shown z-up with NO plane. Camera elev 22&deg;/azim &minus;60&deg;, window = up to 50 frames from 5 before the first hand&ndash;object &lt; 5 cm frame; right hand green, left hand purple, objects orange/amber</p>
+  <p class="footnote">GT renders in the SEASON-2 FRAME (2026-09-09): per-episode gravity z-up with the table at z = 0, drawn as a translucent plane on DexYCB / TACO / ARCTIC / OakInk2 (object points rest within 1 cm of it). GRAB is now anchored from the table pose it ships per sequence (residual 0.0 cm, all 1,332 episodes) but these clips predate that fit, so no plane is drawn on them yet. HOT3D has no consistent support surface (egocentric, many surfaces) and stays z-up by design. Camera elev 22&deg;/azim &minus;60&deg;, window = up to 50 frames from 5 before the first hand&ndash;object &lt; 5 cm frame; right hand green, left hand purple, objects orange/amber</p>
 </section>
 
 <!-- SECTION: appendix A4 (5/5) · viz grid · remaining clips · captions only -->
